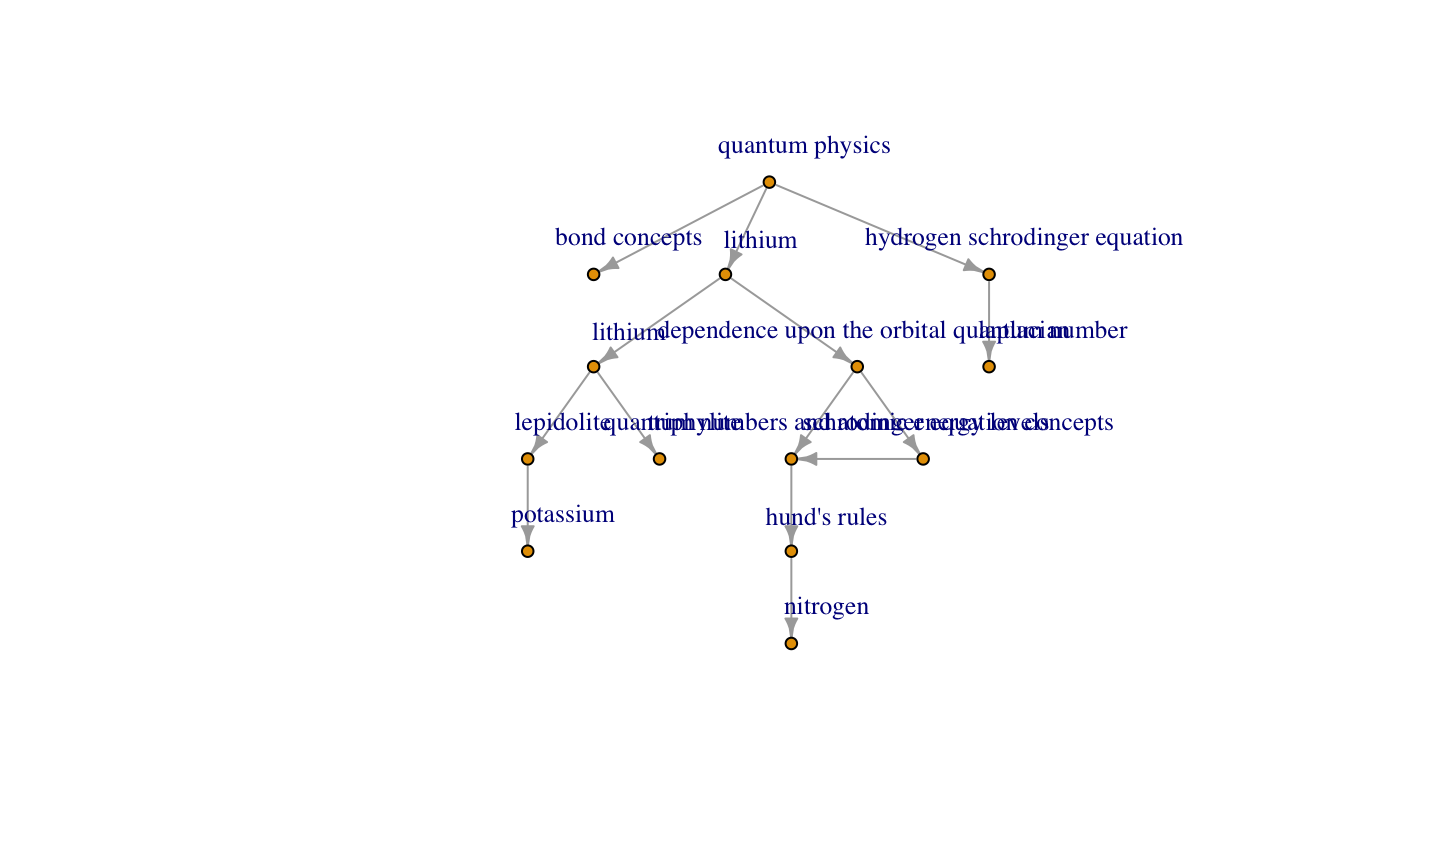
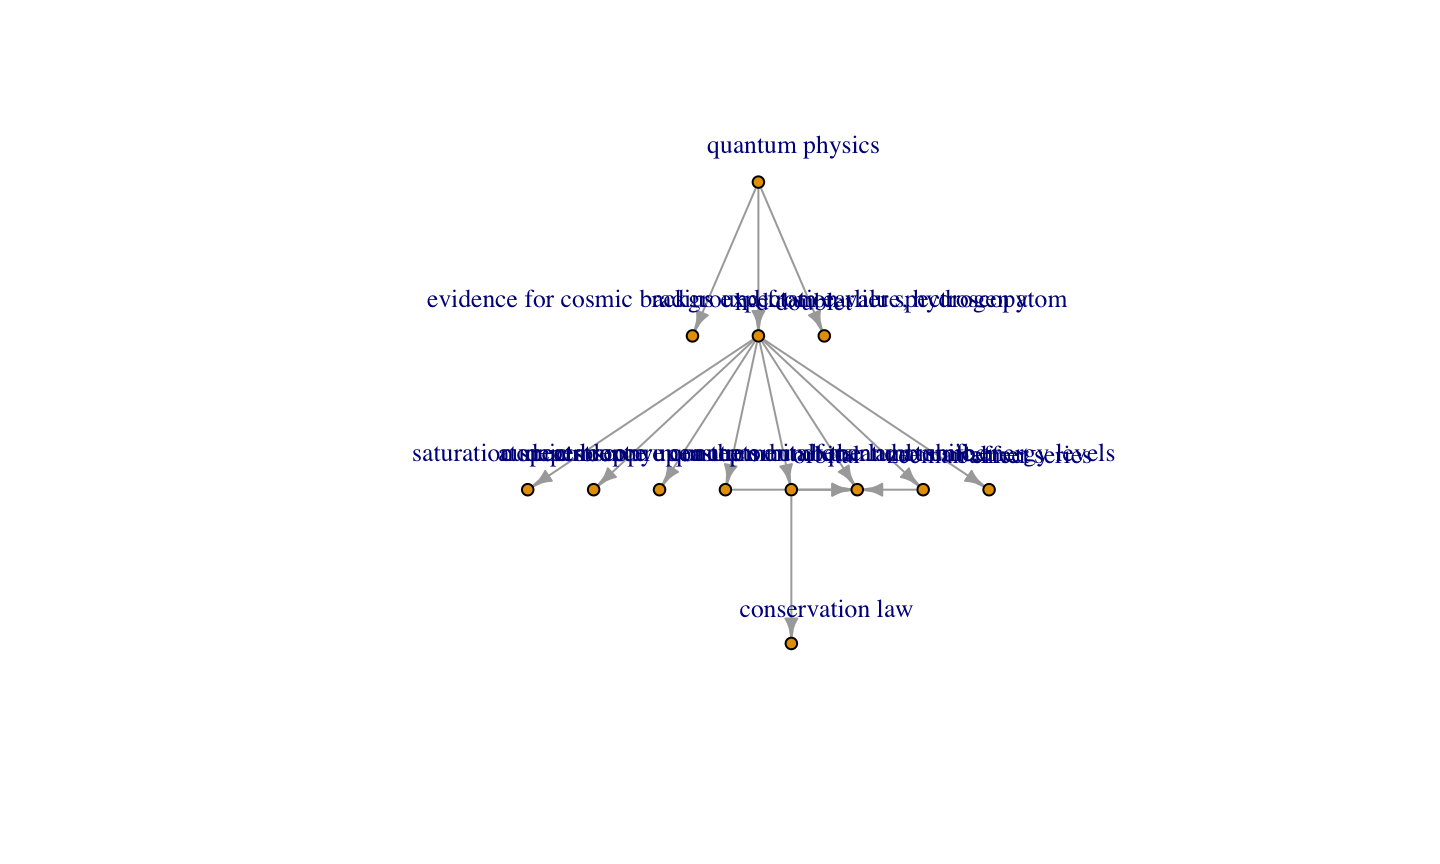
presentation updates

Changed region(s): [[0.2812, 0.1562, 0.8125, 0.6562], [0.5, 0.6875, 0.625, 0.7188]]

diff --git a/final_presentation.html b/final_presentation.html
@@ -214,44 +214,42 @@ links &lt;- html_attr(nodes, &quot;href&quot;)</pre>
 <li>Define a suitable hierarchy score for each node</li>
 <li>Compare scores for 2 neighboring nodes (in the underlying undirected network)
 
-<ol>
+<ul>
 <li>If ratio of scores is between a lower and an upper threshold</li>
 <li>Then, the node with the higher score is higher in the hierarchy</li>
-</ol></li>
+</ul></li>
 <li>Cutoff eliminates
 
-<ol>
+<ul>
 <li>relations between two highly different nodes</li>
 <li>relations where the nodes are too similar (i.e. ratio ~1)</li>
 <li>edges to leaf nodes in the hierarchy</li>
-</ol></li>
+</ul></li>
 </ol>
 
 </article></slide><slide class=''><hgroup><h2>Betweenness Centrality</h2></hgroup><article  id="betweenness-centrality">
 
 <p>\[I(i) = \frac{C_B(i)}{\sqrt{[k_{in}(i)+1][k_{out}(i)+1]}} \] \(I(i)\): Betweenness based hierarchy score for node \(i\)<br/>\(C_B(i)\): Betweenness Centrality of node \(i\)<br/>\(k_{in}(i)\): In-degree of node \(i\)<br/>\(k_{out}(i)\): Out-degree of node \(i\)</p>
 
-</article></slide><slide class=''><hgroup><h2>Results: Betweenness Centrality based score</h2></hgroup><article  id="results-betweenness-centrality-based-score">
-
-<p><img src="final_presentation_files/figure-html/unnamed-chunk-16-1.png" width="720" /></p>
-
-</article></slide><slide class=''><hgroup><h2>Page-Rank Centrality based</h2></hgroup><article  id="page-rank-centrality-based">
-
-<ul>
-<li>definition of measure</li>
-</ul>
-
-</article></slide><slide class=''><hgroup><h2>Results: Page-Rank Centrality based score</h2></hgroup><article  id="results-page-rank-centrality-based-score">
+</article></slide><slide class=''><hgroup><h2>Results</h2></hgroup><article  id="results">
 
 <p><img src="final_presentation_files/figure-html/unnamed-chunk-17-1.png" width="720" /></p>
 
+</article></slide><slide class=''><hgroup><h2>Page-Rank Centrality based</h2></hgroup><article  id="page-rank-centrality-based">
+
+<p>\[PR(u) = \sum_{v\in B_u}\frac{PR(v)}{L(v)} \] \(PR(u)\): Page-Rank for node \(u\)<br/>\(B_u\): The set containing all nodes linking to node \(u\)<br/>\(L(v)\): No. of edges from node \(v\)</p>
+
+</article></slide><slide class=''><hgroup><h2>Results</h2></hgroup><article  id="results-1">
+
+<p><img src="final_presentation_files/figure-html/unnamed-chunk-19-1.png" width="720" /></p>
+
 </article></slide><slide class=''><hgroup><h2>Attraction Basin Hierarchy score</h2></hgroup><article  id="attraction-basin-hierarchy-score">
 
-<p>\[ A(i) = \big(\sum_m \alpha^{-m}\frac{N_{-m}(i)}{&lt;N_{-m}&gt;})\Big/\big(\sum_m \alpha^{-m}\frac{N_{m}(i)}{&lt;N_{m}&gt;}) \] \(A(i)\):Attraction basin based hierarchy score for node \(i\)<br/>\(\alpha\): weighting parameter which weighs closer nodes higher \(N_{-m}(i)\): Number of nodes which can reach node \(i\) in \(m\) directional edges \(N_{m}(i)\): Number of nodes which node \(i\) can reach in \(m\) directional edges \(&lt;N_{-m}&gt;\): Average \(N_{-m}(i)\) for all nodes \(i\) in the graph \(&lt;N_{m}&gt;\): Average \(N_{m}(i)\) for all nodes \(i\) in the graph</p>
+<p>\[ A(i) = \big(\sum_m \alpha^{-m}\frac{N_{-m}(i)}{&lt;N_{-m}&gt;})\Big/\big(\sum_m \alpha^{-m}\frac{N_{m}(i)}{&lt;N_{m}&gt;}) \]<br/>\(A(i)\): Attraction basin based hierarchy score for node \(i\)<br/>\(\alpha\): Weighting parameter which weighs closer nodes higher<br/>\(N_{-m}(i)\): Number of nodes which can reach node \(i\) in \(m\) directional edges<br/>\(N_{m}(i)\): Number of nodes which node \(i\) can reach in \(m\) directional edges<br/>\(&lt;N_{-m}&gt;\): Average \(N_{-m}(i)\) for all nodes \(i\) in the graph<br/>\(&lt;N_{m}&gt;\): Average \(N_{m}(i)\) for all nodes \(i\) in the graph</p>
 
-</article></slide><slide class=''><hgroup><h2>Results: Attraction Basin based score</h2></hgroup><article  id="results-attraction-basin-based-score">
+</article></slide><slide class=''><hgroup><h2>Results</h2></hgroup><article  id="results-2">
 
-<p><img src="final_presentation_files/figure-html/unnamed-chunk-18-1.png" width="720" /></p>
+<p><img src="final_presentation_files/figure-html/unnamed-chunk-21-1.png" width="720" /></p>
 
 </article></slide><slide class=''><hgroup><h2>Challenges &amp; work to do</h2></hgroup><article  id="challenges-work-to-do">
 
@@ -260,7 +258,7 @@ links &lt;- html_attr(nodes, &quot;href&quot;)</pre>
 <li>A formal validation of the full hierarchical network
 
 <ul>
-<li>Comparing the output from different methods</li>
+<li>To compare the output from different methods</li>
 </ul></li>
 <li>Better understanding of the sensitivity to cutoff</li>
 <li>If time permits (or over the winter), taking a dig at the Wikipedia Network</li>
